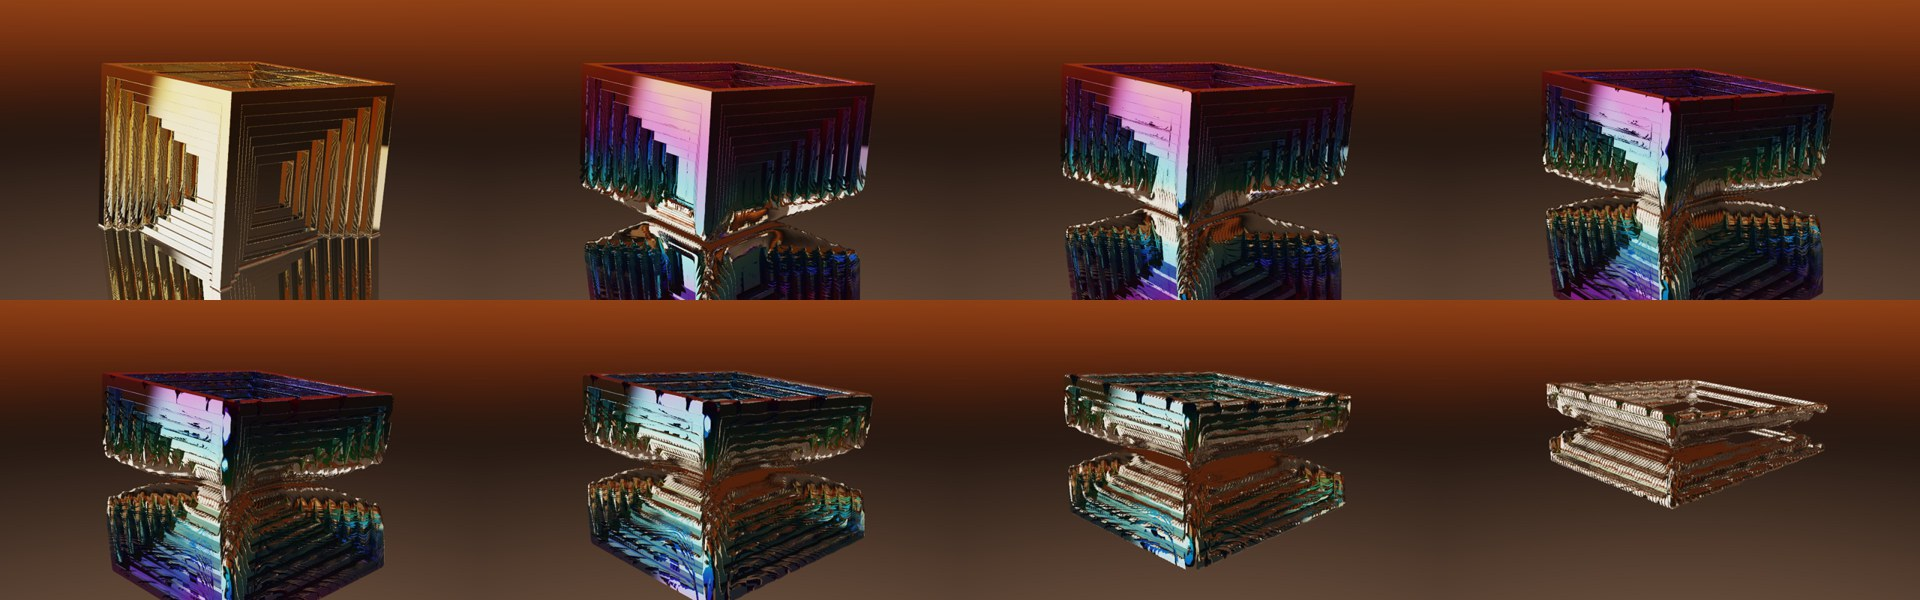
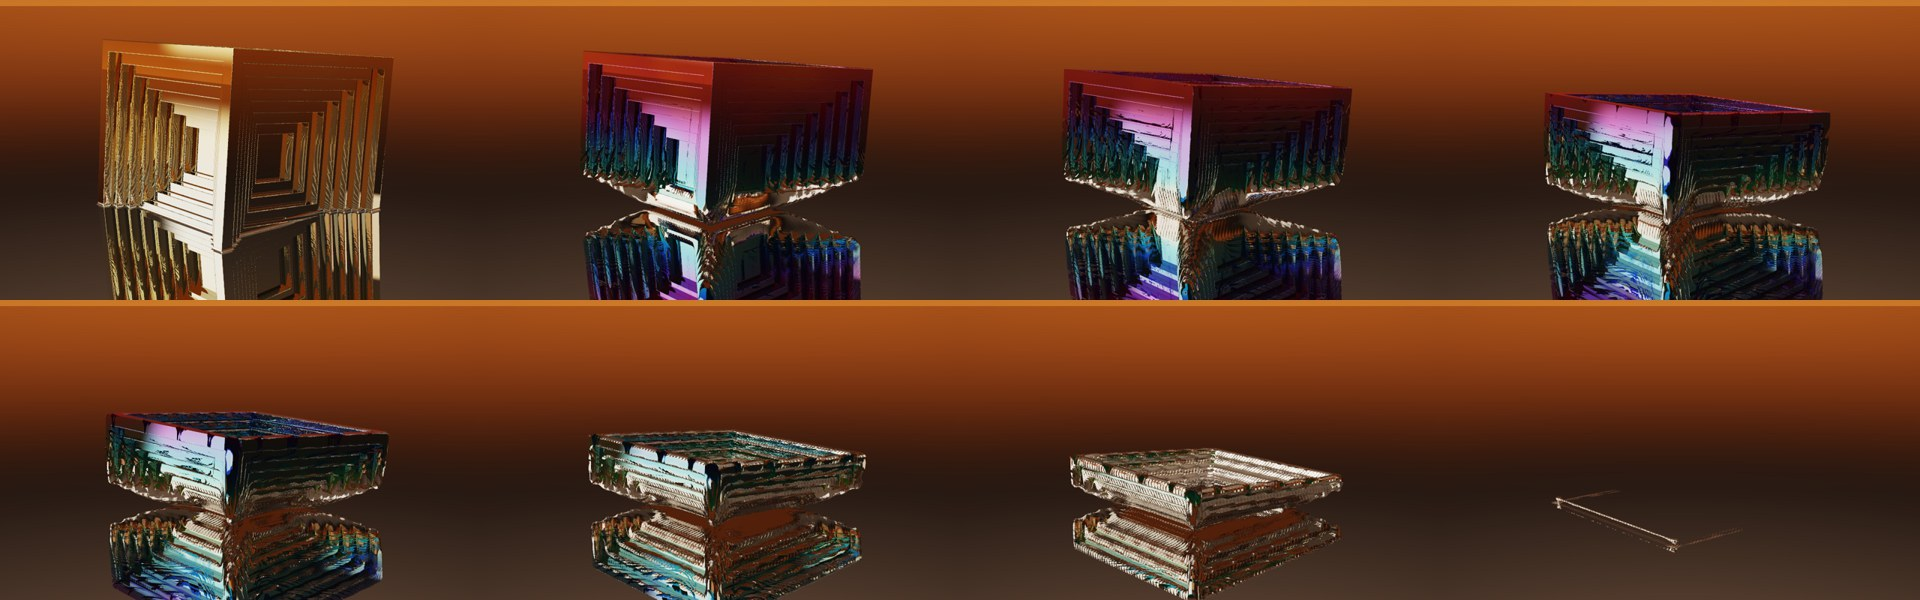
Melt s0 : bain fixe, le cristal descend dans son bain en fondant

diff --git a/melt/proto/s0/s0.js b/melt/proto/s0/s0.js
@@ -1,8 +1,11 @@
 // Prototype s0 : une trémie de bismuth qui fond pour de vrai.
 //
 // 1. Simulation (WGSL, au chargement) : problème de Stefan par la méthode de
-//    l'enthalpie sur une grille 3D (voir sim.mjs, même modèle). Le bain chaud
-//    remonte ; le panache d'air chaud qu'il crée chauffe le cristal ; les parois
+//    l'enthalpie sur une grille 3D (voir sim.mjs, même modèle). La croûte du
+//    fond fond sous la grappe, chauffée par le creuset : le cristal descend
+//    dans le bain (dans son repère, le bain monte : c'est ce que calcule la
+//    simulation ; le rendu remet le bain fixe). Le panache d'air chaud du bain
+//    chauffe le cristal ; les parois
 //    minces et les arêtes fondent d'abord ; le liquide s'égoutte dans le bain.
 //    On note l'instant τ où chaque cellule fond.
 // 2. Rendu : le cristal à l'instant u est { trémie } ∩ { τ > u }. La distance
@@ -12,7 +15,7 @@
 //    gardent leur oxyde.
 //
 // URL : ?u=0.5 (instant de la remontée) &h=0.025 (pas de la grille) &sink=8097
-import { P0 } from './sim.mjs';
+import { P0, level } from './sim.mjs';
 import { MOODS } from '../../src/recipe.js';
 
 const params = new URLSearchParams(location.search);
@@ -177,7 +180,7 @@ fn bake(@builtin(global_invocation_id) g: vec3u) {
 const RENDER = COMMON + /* wgsl */ `
 struct R {
   res: vec4f, cam: vec4f, camF: vec4f, camR: vec4f, camU: vec4f,
-  st: vec4f,      // u (remontée), vitesse d'oxydation, image, enfoncement du cristal
+  st: vec4f,      // u (fonte), vitesse d'oxydation, image, descente du cristal
   envLo: vec4f, envHi: vec4f, forge: vec4f,
   boxes: array<vec4f, 18>,
 };
@@ -202,7 +205,7 @@ fn fieldAt(p: vec3f) -> vec2f {
 // (distance, part fondue de la surface : 0 face d'origine, 1 face fondue)
 var<private> MELTED: f32;
 fn crystal(pw: vec3f) -> f32 {
-  let p = pw + vec3f(0.0, u.st.w, 0.0); // (repère du cristal : il s'est enfoncé)
+  let p = pw + vec3f(0.0, u.st.w, 0.0); // (repère du cristal : il est descendu de u.st.w)
   let dh = hopper(p, S0.crys.x, S0.crys.y, S0.crys.z, S0.crys.w);
   if (dh > 0.08) { MELTED = 0.0; return dh; }
   let F = fieldAt(p);
@@ -211,7 +214,7 @@ fn crystal(pw: vec3f) -> f32 {
   return max(dh, phi);
 }
 fn scene(p: vec3f) -> f32 {
-  let L = level(u.st.x, S0);
+  let L = S0.tide.x; // (le bain reste à sa hauteur : c'est le cristal qui descend)
   return smin(crystal(p), p.y - L, 0.03); // le ménisque : le bain mouille le cristal
 }
 fn nrm(p: vec3f) -> vec3f {
@@ -254,7 +257,7 @@ fn filmRGB(th: f32, cosi: f32) -> vec3f {
 
 fn trace(ro0: vec3f, rd0: vec3f) -> vec3f {
   var ro = ro0; var rd = rd0; var T = vec3f(1.0); var Lc = vec3f(0.0);
-  let L = level(u.st.x, S0);
+  let L = S0.tide.x; // (le bain reste à sa hauteur : c'est le cristal qui descend)
   for (var b = 0; b < 4; b++) {
     var t = 0.003; var hit = false; var water = false;
     // (boîte de la grille : au-delà, seulement le bain ou le studio)
@@ -444,7 +447,8 @@ async function main() {
     U.fill(0);
     U.set([W, H, 0, 0], 0); U.set([...cam, Math.tan((fov * Math.PI) / 360)], 4);
     U.set([...f, 0], 8); U.set([...r, 0], 12); U.set([...up, 0], 16);
-    U.set([u, ox, 0, dropAt(u)], 20); U.set([...M.lo, 0], 24); U.set([...M.hi, 0], 28); U.set([...M.forge.color, M.forge.strength], 32);
+    // (la croûte fond sous la grappe : le cristal descend dans le bain)
+    U.set([u, ox, 0, level(u, P) - P.LL + dropAt(u)], 20); U.set([...M.lo, 0], 24); U.set([...M.hi, 0], 28); U.set([...M.forge.color, M.forge.strength], 32);
     M.boxes.slice(0, 6).forEach((b, k) => { U.set([...norm(b.dir), b.I], 36 + 12 * k); U.set([...b.color, b.hw], 40 + 12 * k); U.set([...(b.up ?? [0, 1, 0]), b.hh], 44 + 12 * k); });
     device.queue.writeBuffer(ibuf, 0, new Float32Array([W, H, exposure * M.grade.exposure, 0]));
     for (let k = 0; k < spp; k++) {

diff --git a/melt/docs/concept.md b/melt/docs/concept.md
@@ -72,9 +72,11 @@ La fonte de la scène est une imitation : un arrondi et un comblement des gradin
 - le solide conduit la chaleur. Une cellule qui a reçu la moitié de sa chaleur latente fond : au-dessus du bain le liquide s'égoutte, dessous il rejoint le bain ;
 - l'appui : quand la section du solide au ras du bain tombe sous 15 % de celle du cristal (la taille a fondu, comme l'encoche à la ligne de flottaison d'un iceberg), le bloc au-dessus n'est plus porté et s'enfonce jusqu'à reposer sur une section plus large. La chaleur est calculée dans le repère du cristal.
 
+**Le repère.** Premier film : le bain montait autour d'un cristal immobile. L'utilisateur : « on a plutôt l'impression que le sol monte plutôt que le cristal qui descend dans le sol en fondant ». La simulation calcule la même chose dans les deux cas (un bain qui monte le long du cristal, c'est un cristal qui descend dans son bain), mais l'image doit montrer le cristal qui descend. La cause : la croûte du fond, chauffée par le creuset, fond sous la grappe, et les cristaux qui y sont soudés s'enfoncent avec elle. Le rendu remet donc le bain et la caméra fixes, et fait descendre le cristal de L(u) − L_L, plus son tassement quand la taille cède.
+
 **Ce qu'on garde** : pour chaque cellule, l'instant τ où elle fond. Le cristal à l'instant u est la trémie d'origine (faces nettes) ∩ { τ > u }, rendu par la distance φ = (u − τ)·v, avec v = 1/|∇τ|, la vitesse du front. Le champ est lissé (trois passes) : la méthode de l'enthalpie fond une cellule à la fois, et la tension superficielle lisse les faces fondues. Une face fondue est du métal liquide, sans oxyde. Il suffit d'une texture 3D par cristal, relue à chaque image. Le calcul prend 0,7 s sur le GPU (5 878 pas) ; `sim.mjs` est la même chose en Node, pour régler le modèle (`lead.mjs` mesure l'avance de la fonte sur la ligne de métal).
 
-**Ce qui en sort sans réglage à la main** : les parois minces et les arêtes fondent d'abord, les gradins s'amollissent et pendent en franges de métal fondu le long de la ligne. Une encoche se creuse à la ligne, puis le bloc s'assoit dans son bain. La chaleur du métal fait défiler les couleurs de l'oxyde devant la fonte. Le film est dans `proto/s0/fonte.gif`.
+**Ce qui en sort sans réglage à la main** : les parois minces et les arêtes fondent d'abord, les gradins s'amollissent et pendent en franges de métal fondu le long de la ligne. Une encoche se creuse à la ligne, puis le bloc s'assoit dans son bain. La chaleur du métal fait défiler les couleurs de l'oxyde devant la fonte. Le film est dans `proto/s0/fonte.gif` : le cristal descend dans un bain fixe.
 
 **Pas encore fait** : la peau d'oxyde et la surface du bain (une simulation 2D en hauteur, qui porterait la peau et les rides) ; plusieurs cristaux ; l'intégration dans la scène (une grille par cristal, plus grossière pour les satellites) ; le crènelage des reflets.
 
